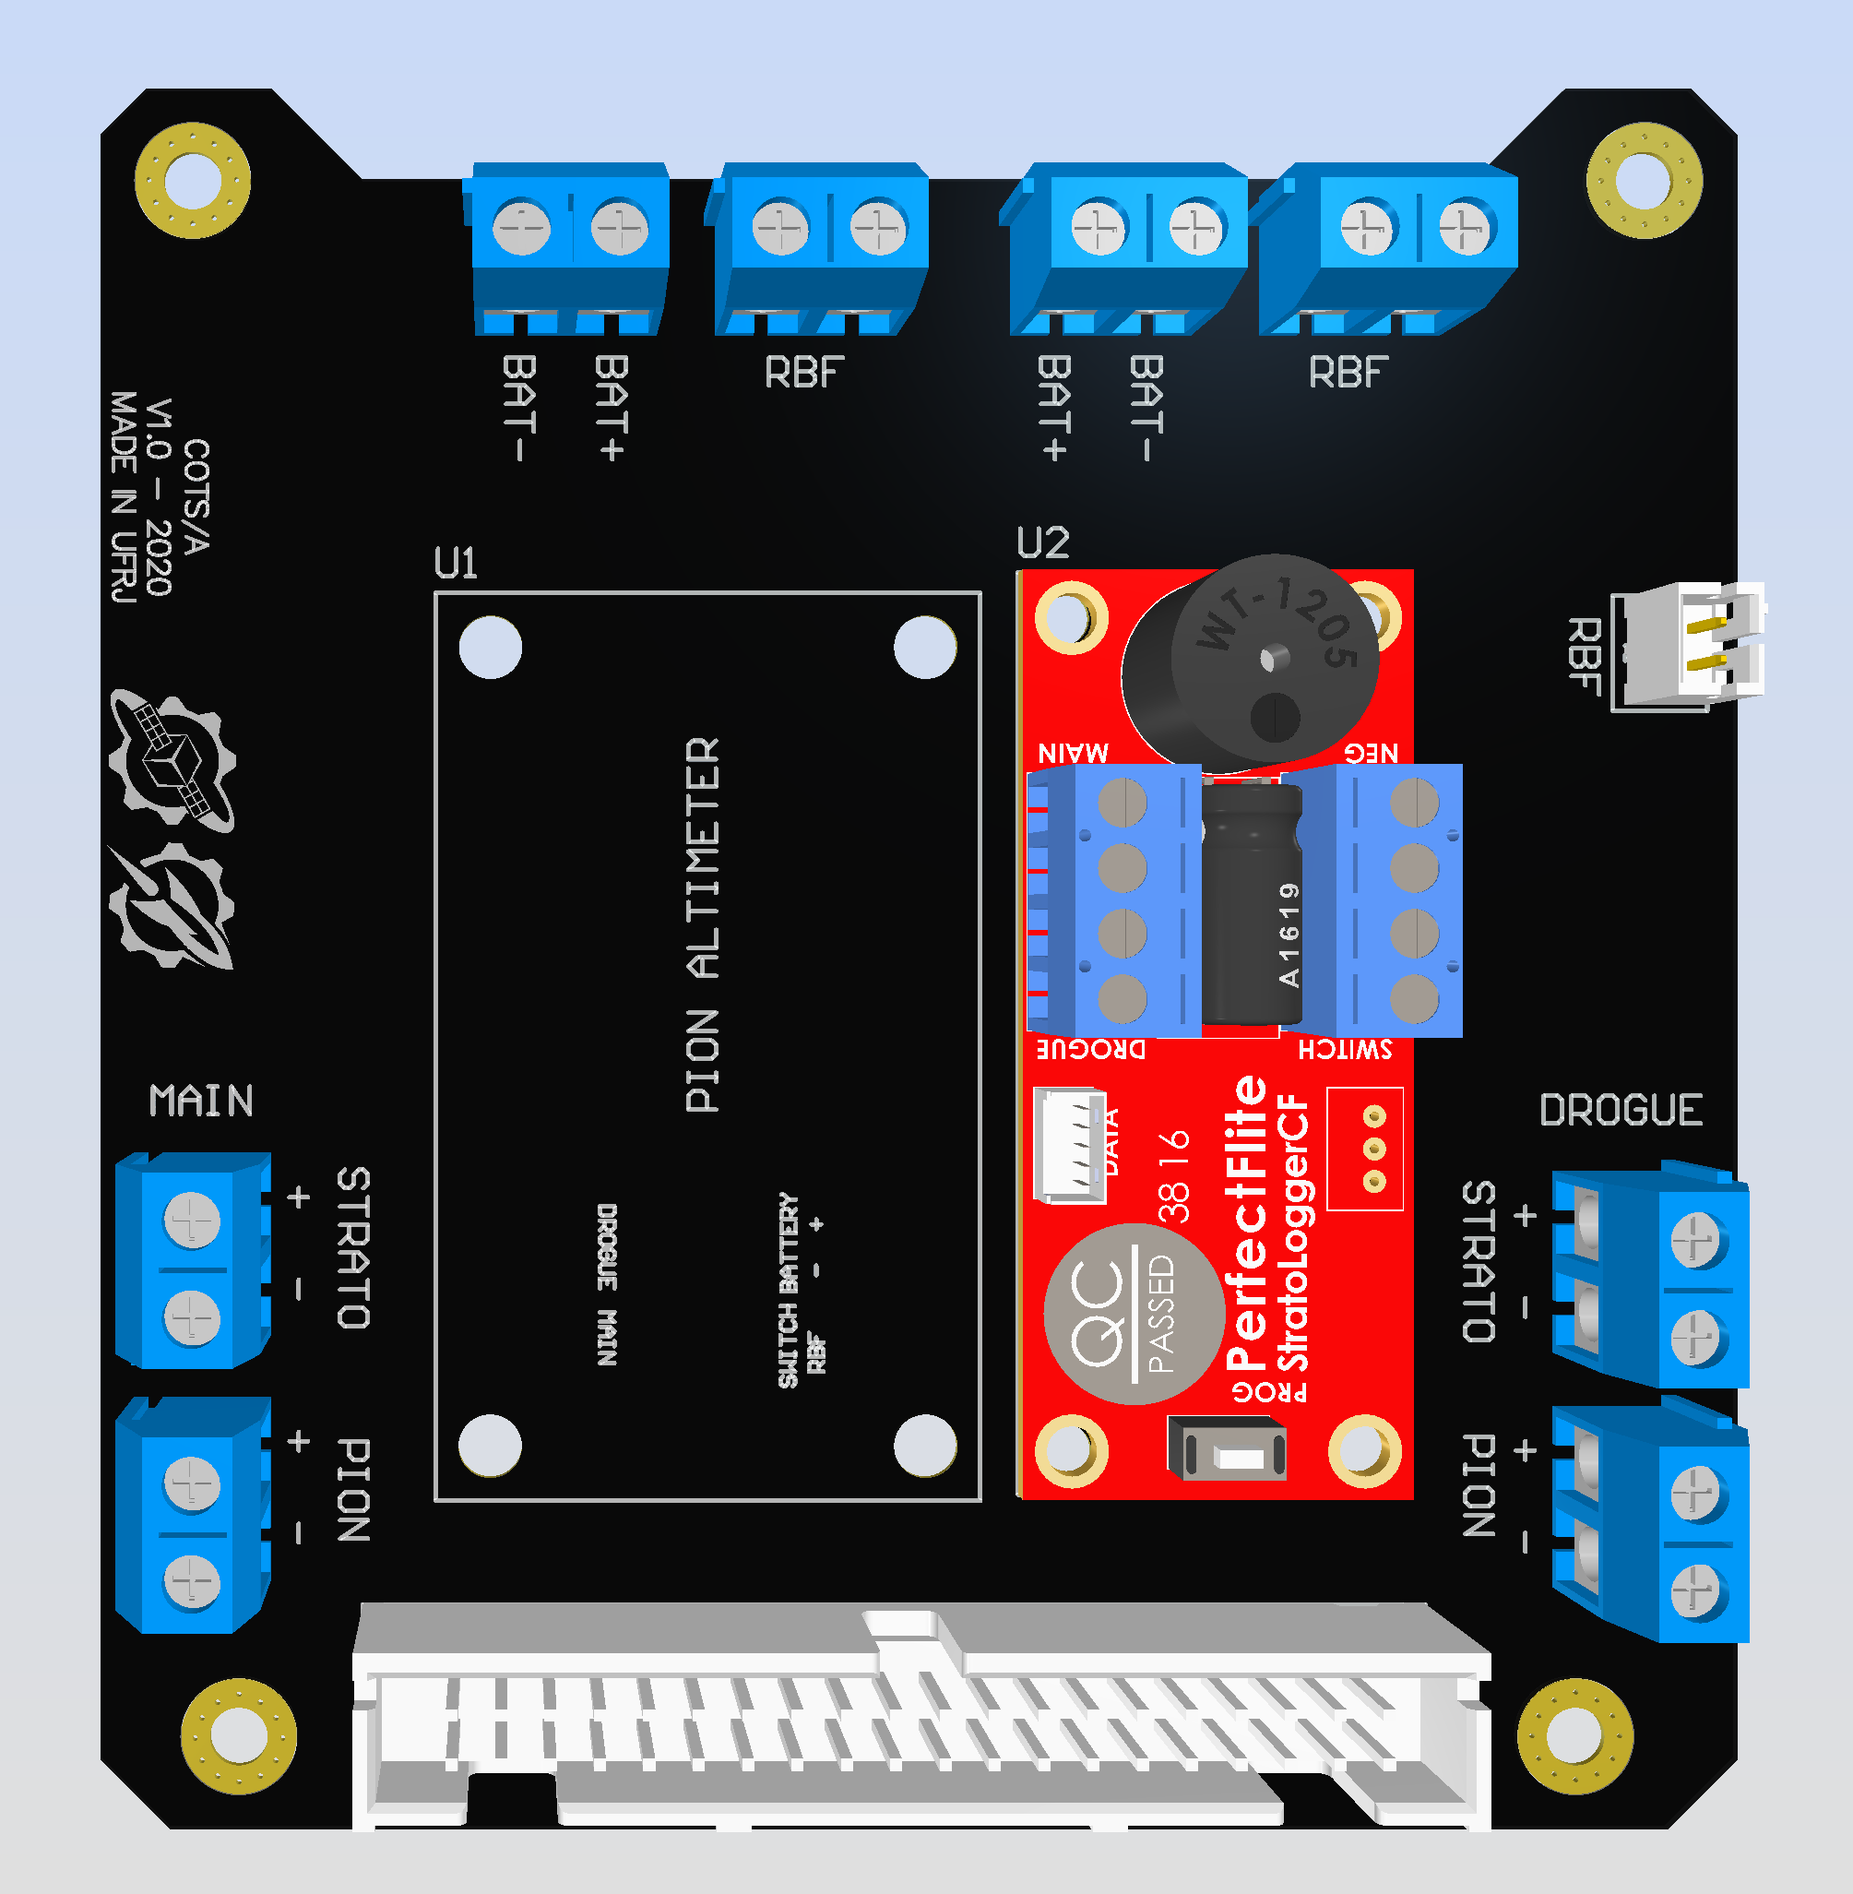
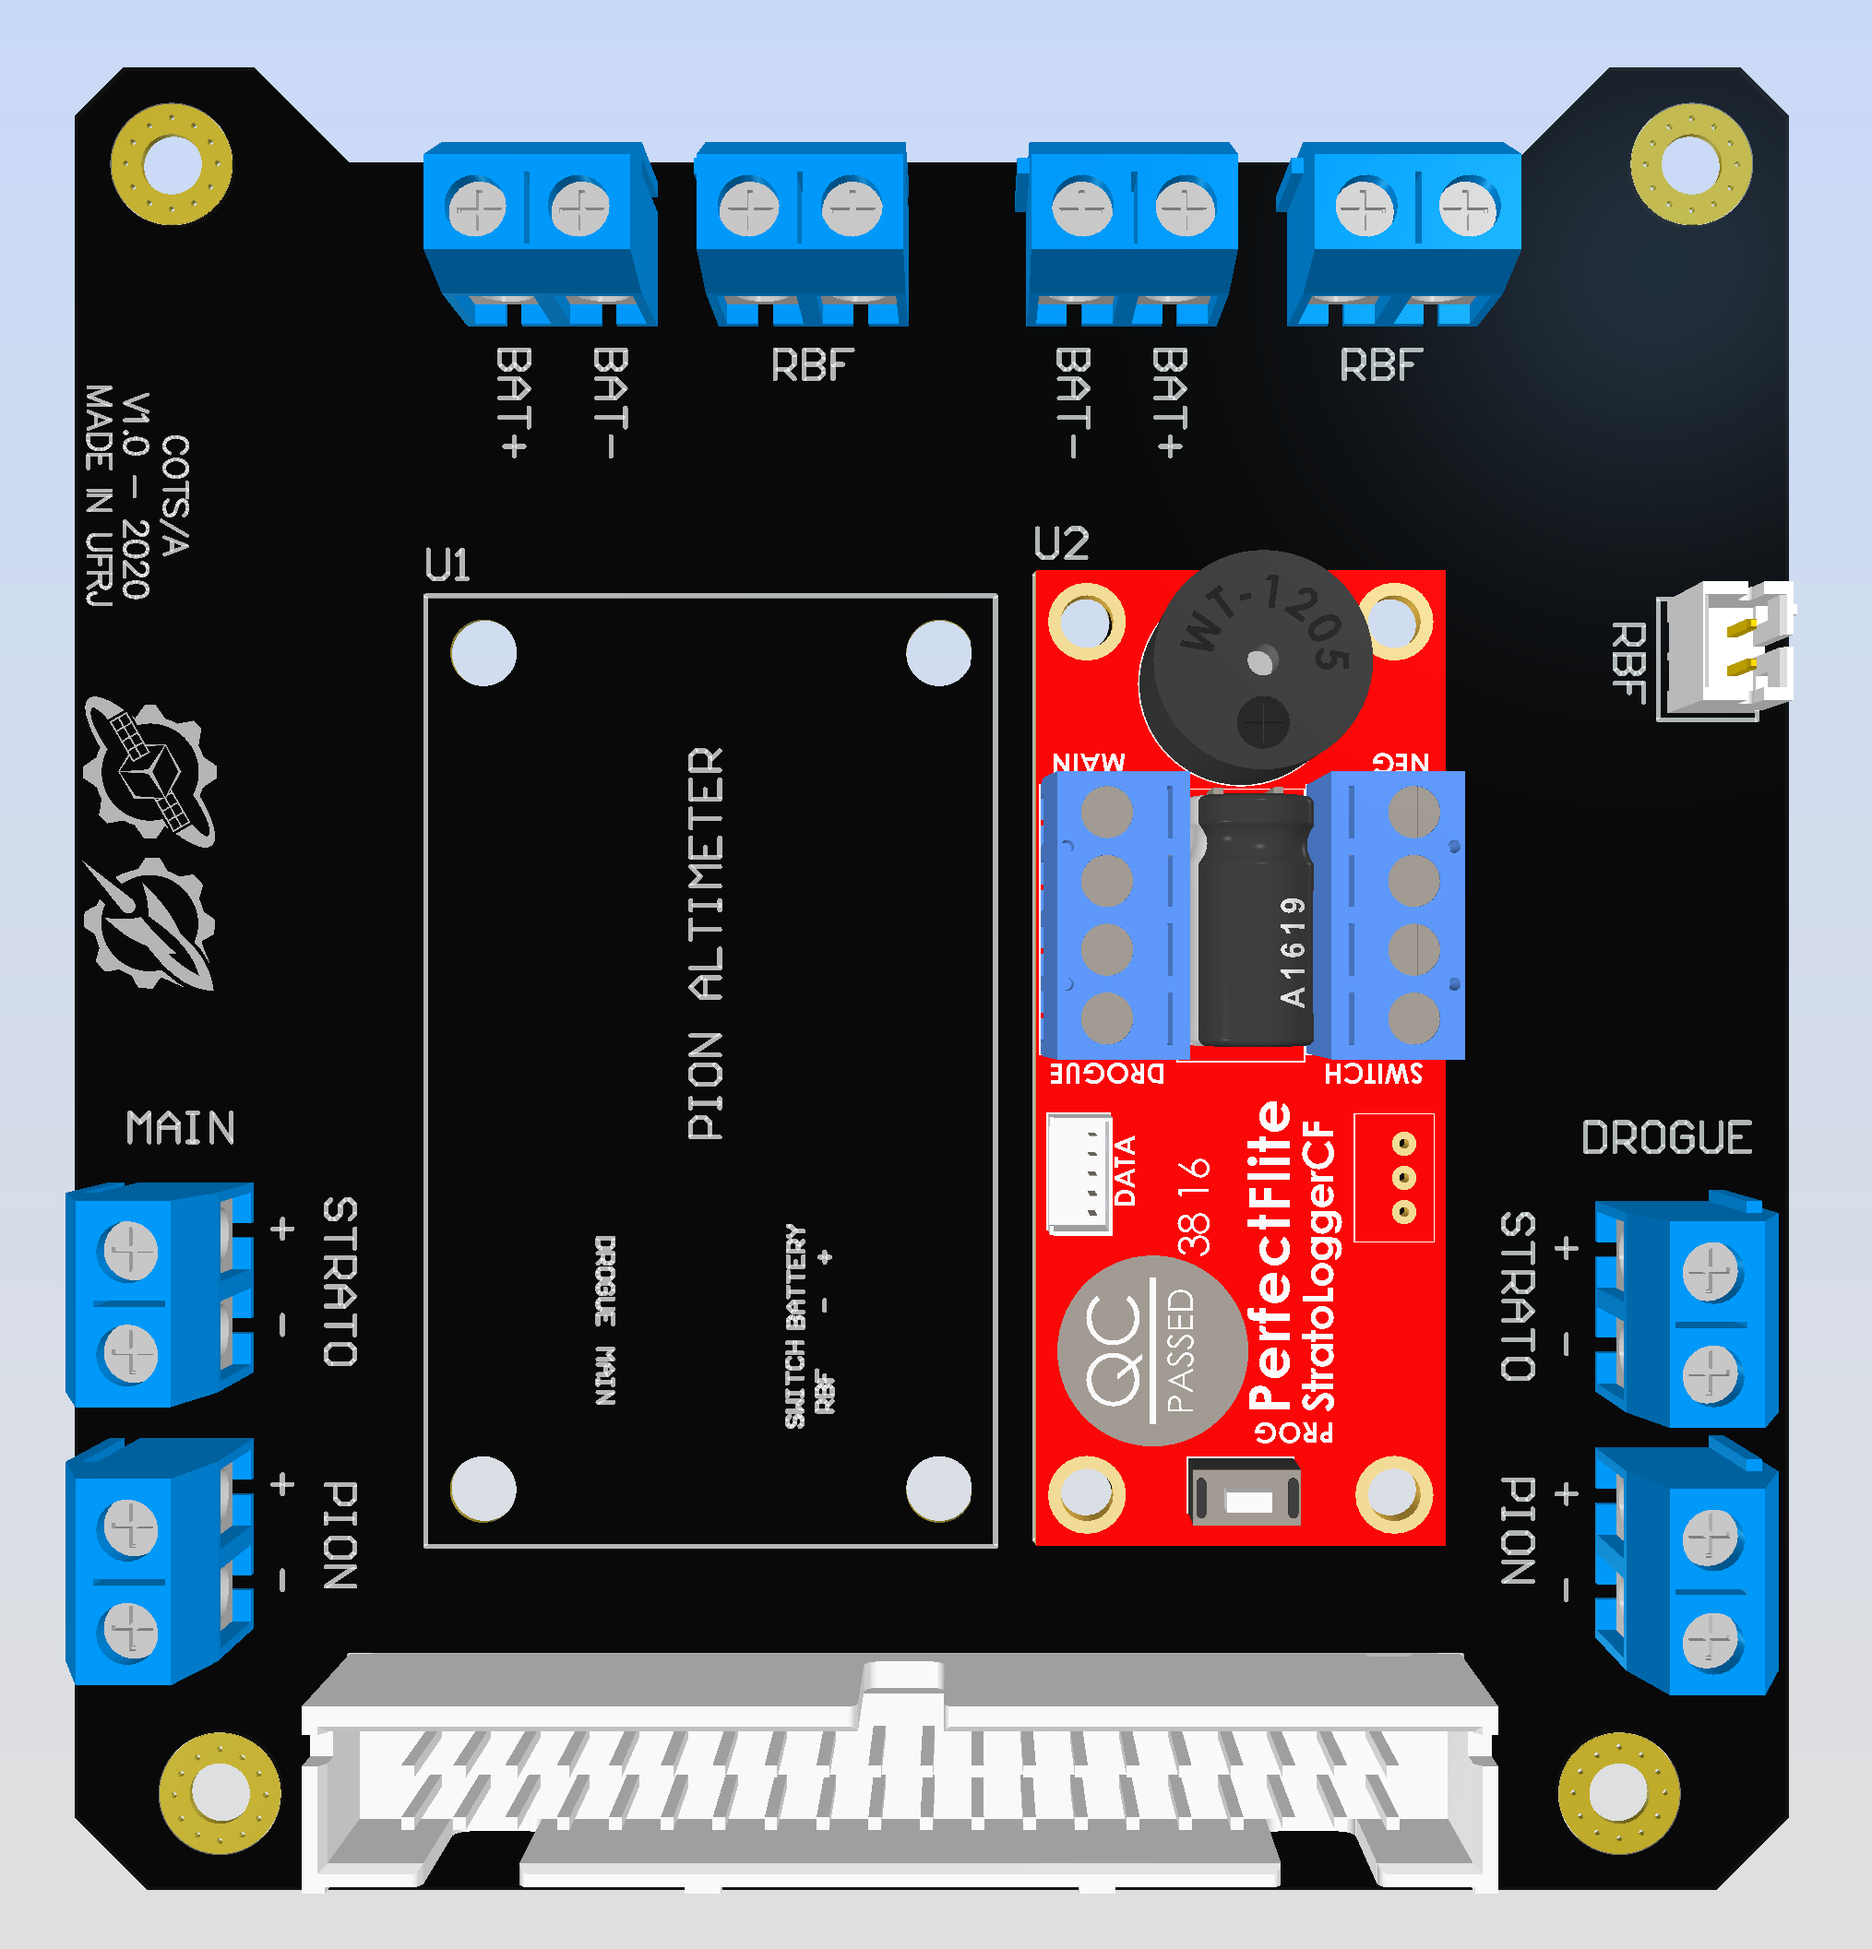
Add simulations and changes after wiring was facilitated

diff --git a/my-website/docs/aurorav2/hardware/placas/rec.md b/my-website/docs/aurorav2/hardware/placas/rec.md
@@ -30,6 +30,11 @@ _*Este requisito deve ser confirmado. Devemos fazer um estudo de casos alternati
 ![img](/img/docs/aurora/hardware/placas/rec/rec_pcb_oficial.png)
 
 ## Simulações
+### Skibs em paralelo
+![img](/img/docs/aurora/hardware/placas/rec/rec_sim_parallel.jpg)
+
+### Skibs em série
+![img](/img/docs/aurora/hardware/placas/rec/rec_sim_series.jpg)
 
 ## Testes
 ### Protoboard

diff --git a/my-website/docs/aurorav2/hardware/placas/cotsa.md b/my-website/docs/aurorav2/hardware/placas/cotsa.md
@@ -26,3 +26,4 @@ São 8 bornes, 4 para cada altímetro. Os bornes de RBF recebem o sinal pelo con
 ![img](/img/docs/aurora/hardware/placas/cotsa/cotsa_pcb.png)
 
 ## Wiring
+![img](/img/docs/aurora/hardware/placas/cotsa/cotsa_wiring.png)
